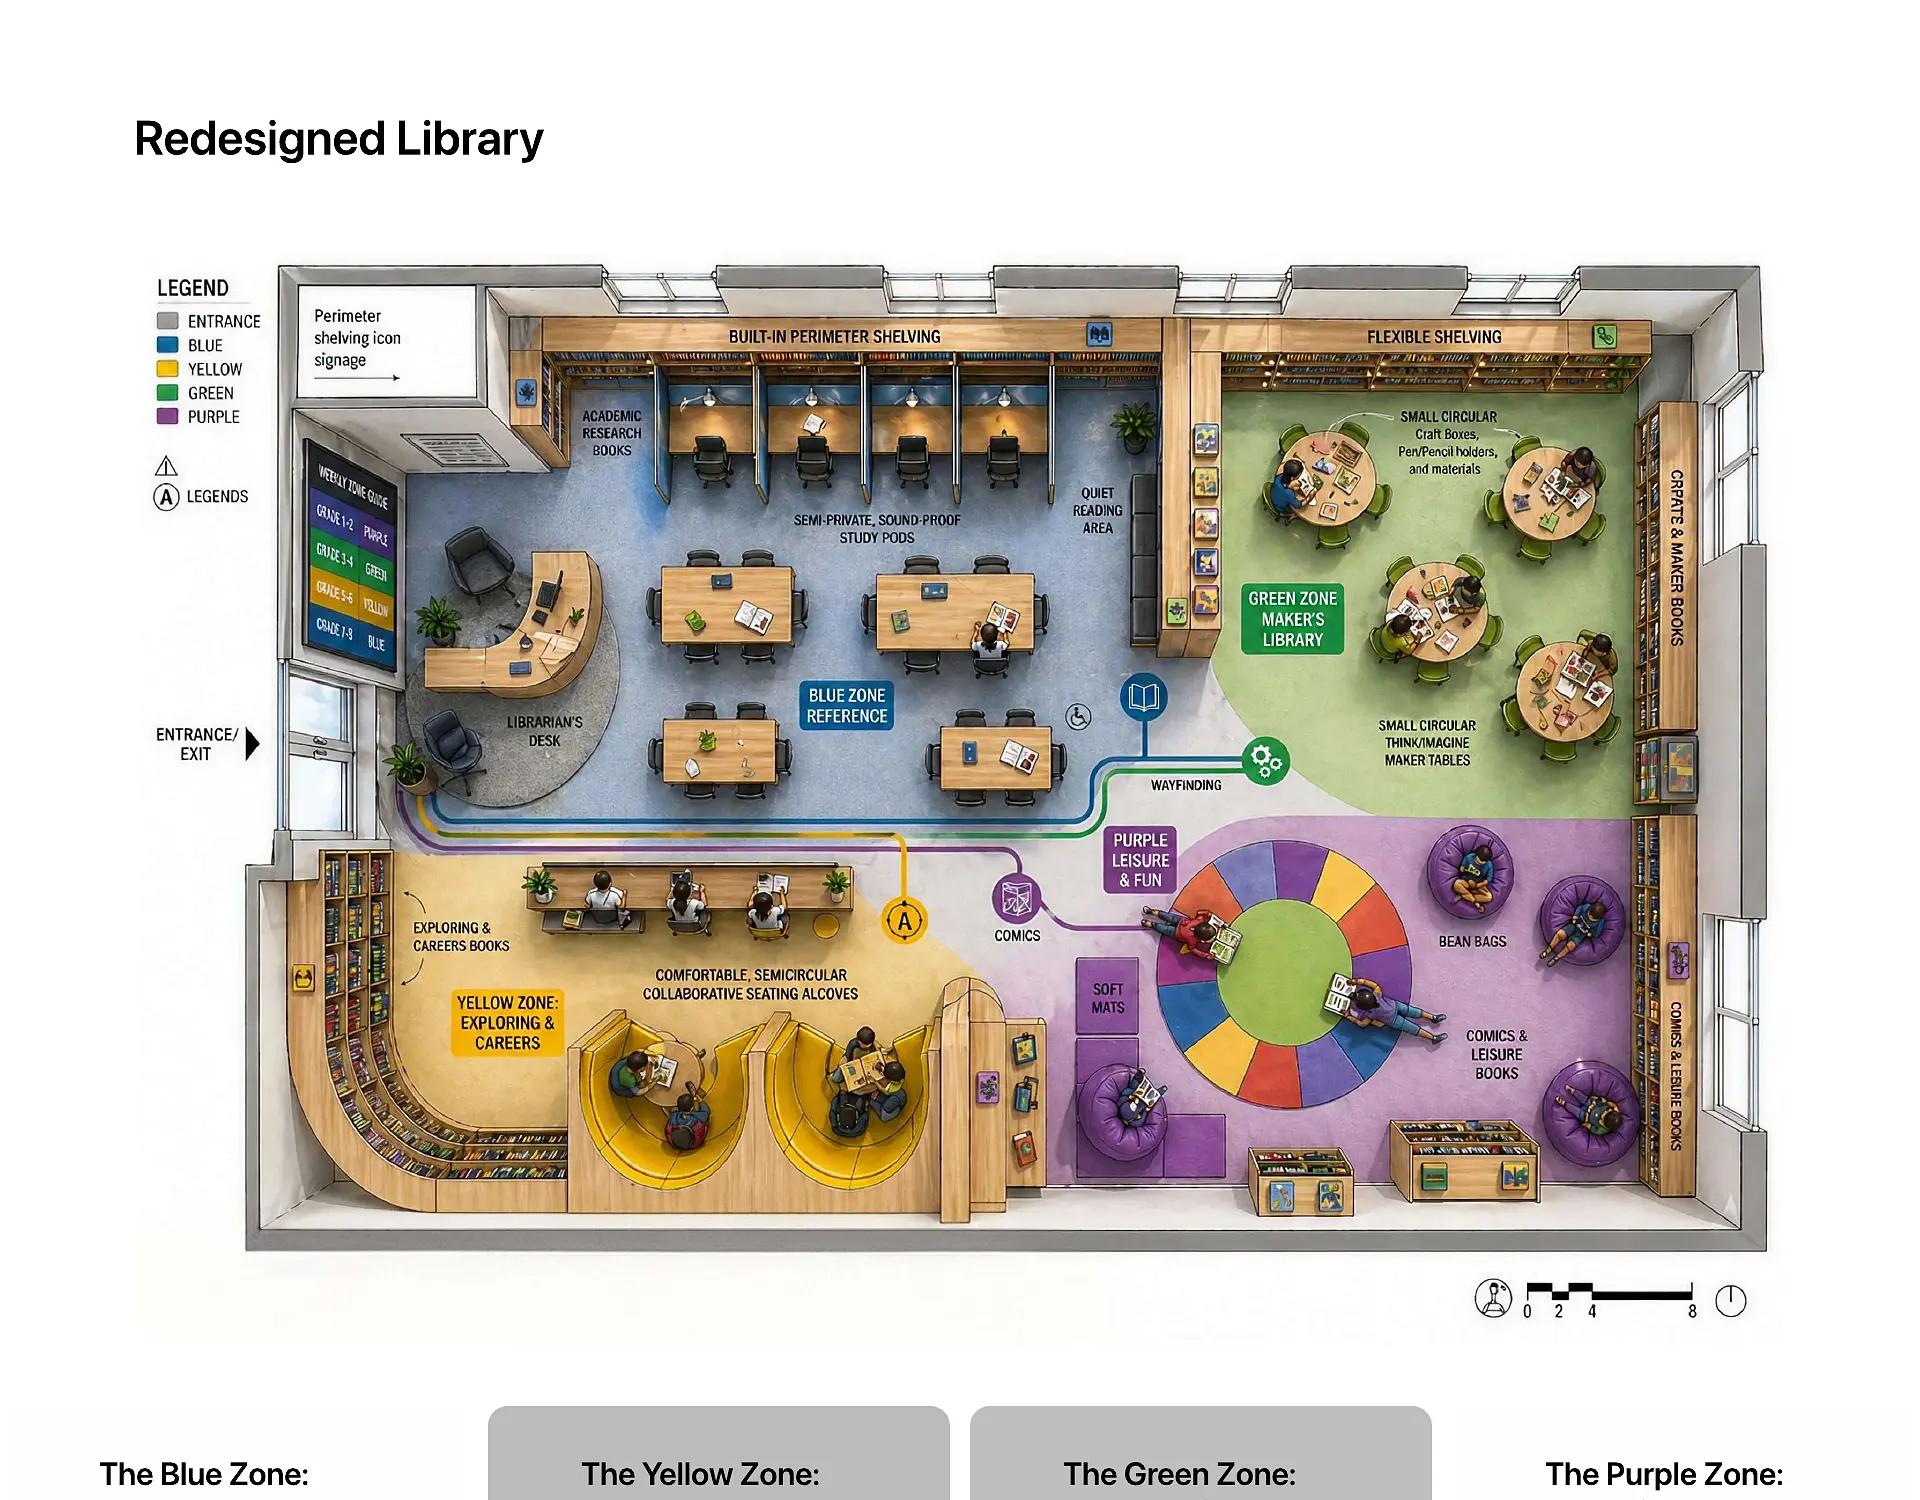
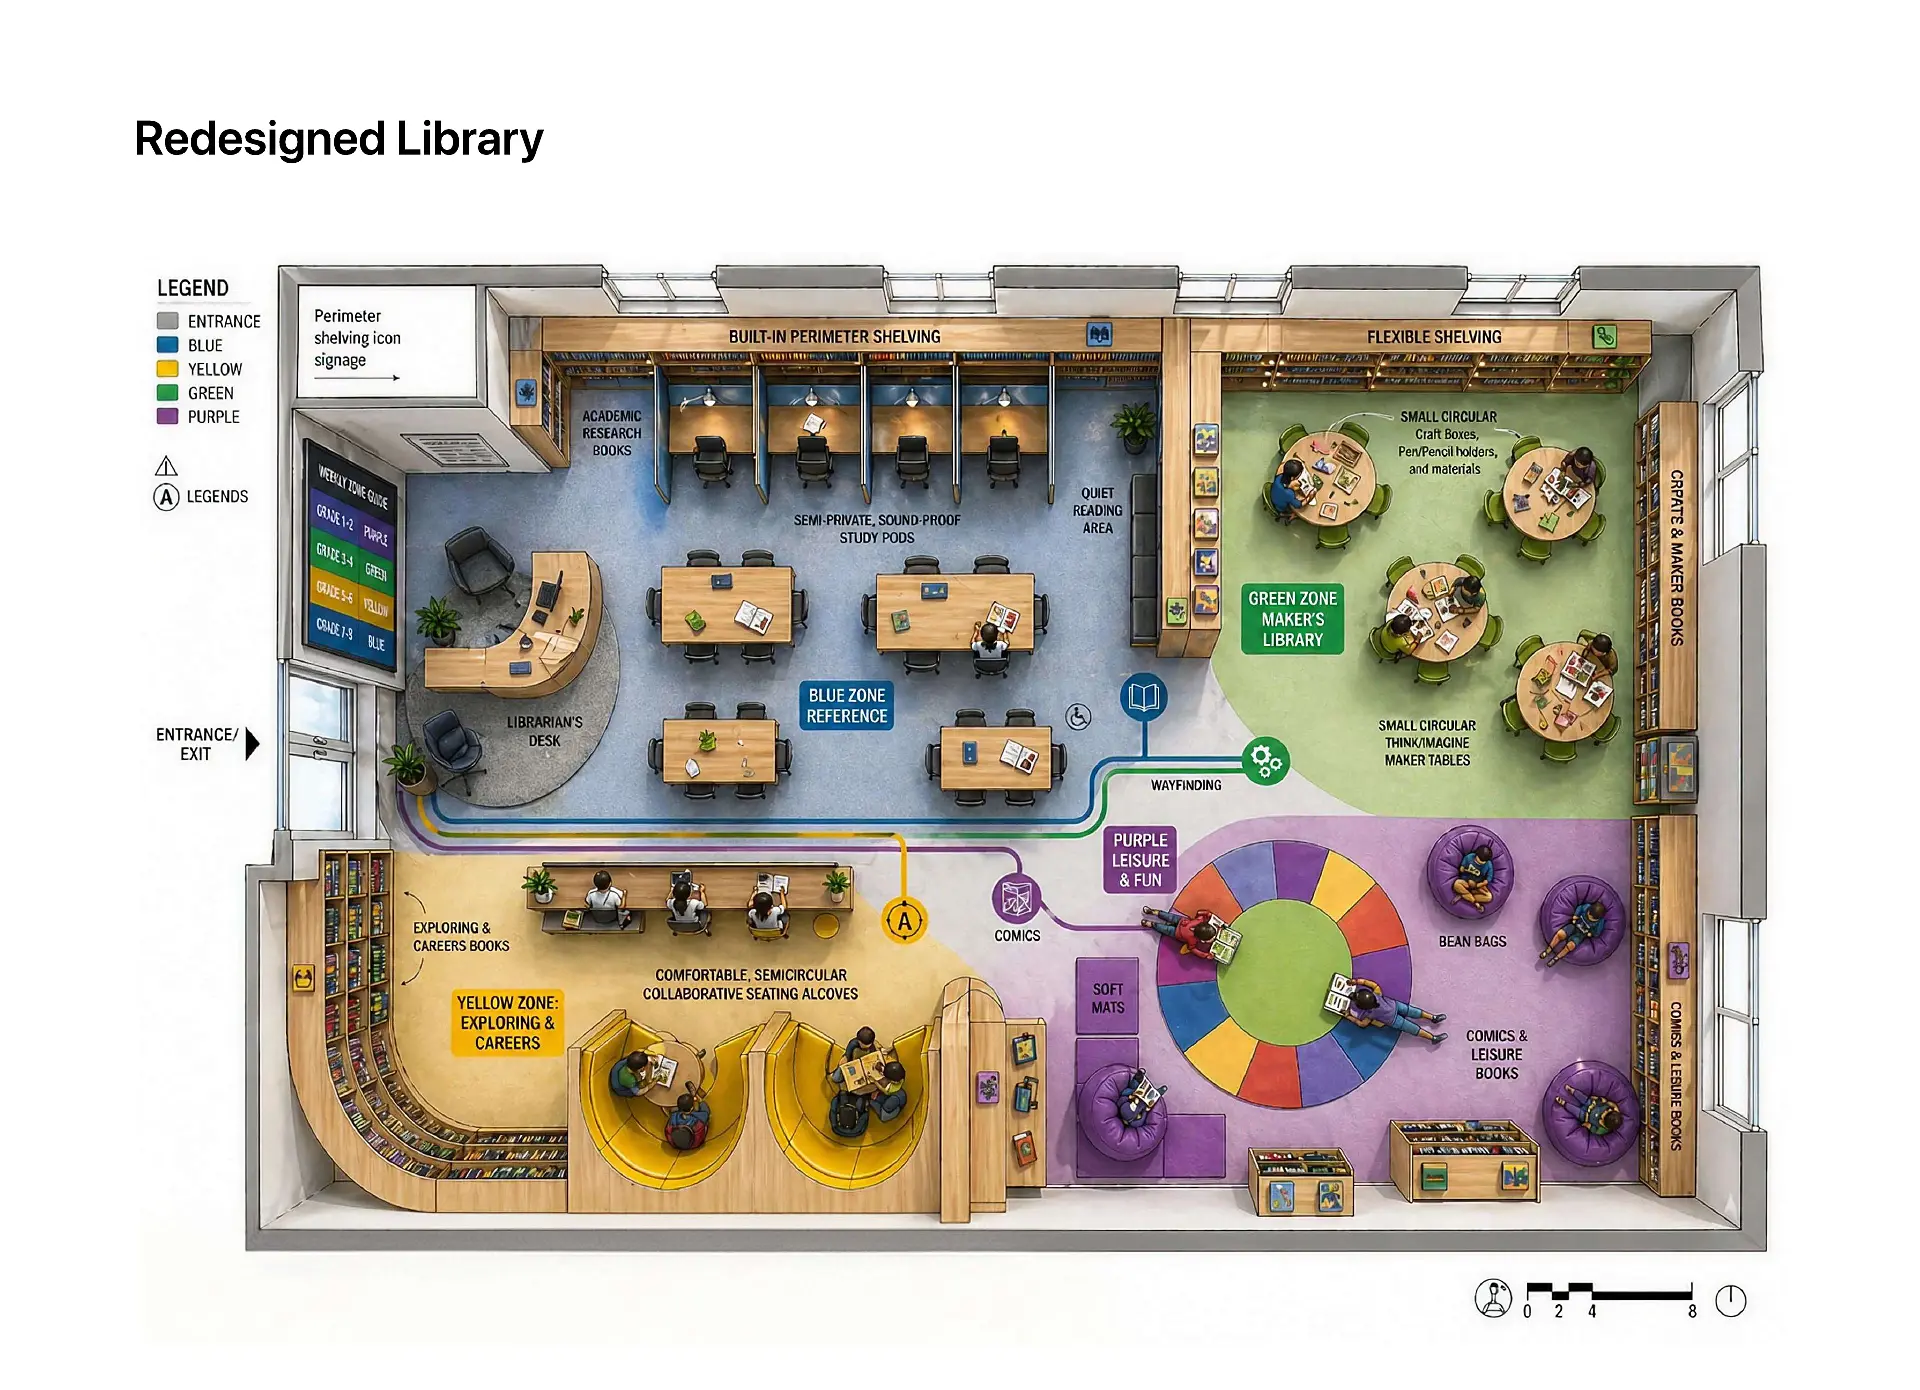
Clean up Library section, whiten app-screen backgrounds, drop Tools
The floor plan source image still had a cropped row of placeholder
zone-label cards baked into the bottom; cropped those out entirely.
Replaced the library-photos figure with four actual zone cards
instead, each tinted and topped in that zone's own wayfinding color
(blue/yellow/green/purple) rather than the project's single accent,
so the grid speaks the same color language as the floor plan.

App screenshots now sit on plain white instead of the warm tan frame
used for diagrams/photos, closer to how the screens read standalone
and fixing the white/blue/pink clash in the onboarding composite.

Tools is now optional in the schema and conditionally rendered, and
removed entirely from this project's meta row.

Claude-Session: https://claude.ai/code/session_01ABoxSrGLR5kJVAU4Q3hr6i

diff --git a/src/content/config.ts b/src/content/config.ts
@@ -10,7 +10,7 @@ const work = defineCollection({
       coverAlt: z.string(),
       role: z.string(),
       timeline: z.string(),
-      tools: z.array(z.string()),
+      tools: z.array(z.string()).optional(),
       order: z.number(),
       featured: z.boolean().default(false),
       // Optional — case-study page template (sidebar nav / meta row)

diff --git a/src/content/work/conversations-before-college.md b/src/content/work/conversations-before-college.md
@@ -6,7 +6,6 @@ coverAlt: "Conversations Before College title card on a blue-to-green gradient b
 role: Lead System & Interaction Designer
 team: Group Project · 4 Designers
 timeline: March – April 2026
-tools: [Figma]
 services: [System Design, Service Design, UI/UX]
 order: 2
 featured: true
@@ -116,13 +115,31 @@ Subjects taught kids that knowledge lives in sealed boxes, Science over here, Ar
 
 <figure>
 <img src="/images/conversations/library-floorplan.webp" alt="Floor plan of the redesigned school library showing the Blue, Yellow, Green, and Purple intent-based zones with wayfinding paths" />
-<figcaption>The four zones: Blue (Reference), Yellow (Explorer), Green (Creation), Purple (Leisure), connected by a single color-coded wayfinding path from the entrance.</figcaption>
+<figcaption>Connected by a single color-coded wayfinding path from the entrance, built and in use at the school.</figcaption>
 </figure>
 
-<figure>
-<img src="/images/conversations/library-photos.webp" alt="Photos of the implemented library redesign: students working in each of the four color-coded zones, a digital zone-guide screen, and the floor wayfinding paths" />
-<figcaption>Built and in use. The zone guide screen at the entrance tells each grade which zone they're rotating through that week.</figcaption>
-</figure>
+<ul class="zone-grid">
+<li class="zone-card" style="--zone-color: #3E6FD9">
+<p class="zone-label">Blue</p>
+<h3>Reference</h3>
+<p>Quiet, academic research books and built-in perimeter shelving for focused, solitary work.</p>
+</li>
+<li class="zone-card" style="--zone-color: #D9A530">
+<p class="zone-label">Yellow</p>
+<h3>Explorer</h3>
+<p>Comfortable, semicircular alcoves for careers and exploring books, built for collaborative browsing.</p>
+</li>
+<li class="zone-card" style="--zone-color: #4F9D5C">
+<p class="zone-label">Green</p>
+<h3>Creation</h3>
+<p>Small circular maker tables stocked with craft boxes, for hands-on, think-and-imagine work.</p>
+</li>
+<li class="zone-card" style="--zone-color: #8B5FC2">
+<p class="zone-label">Purple</p>
+<h3>Leisure</h3>
+<p>Bean bags and soft mats around a comics and leisure corner, reading for fun treated as seriously as reading for grades.</p>
+</li>
+</ul>
 
 ## CareerBridge
 
@@ -138,33 +155,33 @@ The first screen after login isn't a subject picker. It's eight situational ques
 <figcaption>A quick run through CareerBridge end to end before the screen-by-screen breakdown below.</figcaption>
 </figure>
 
-<figure class="figure--core">
+<figure class="figure--core figure--white">
 <p class="figure-eyebrow">The core mechanism</p>
 <img src="/images/conversations/app-onboarding.webp" alt="CareerBridge onboarding: the welcome screen, and the dual-access login screens for students (Exploring) and parents (Assessing)" />
 <figcaption>Dual access from the first screen. A student logs in to explore; a parent logs in to a different view entirely, built to assess, not control.</figcaption>
 </figure>
 
-<figure>
+<figure class="figure--white">
 <img class="figure-img--phone" src="/images/conversations/app-pathways.webp" alt="CareerBridge pathway results screen showing four broad industry pathways: Product Engineering & Design, Digital Systems & UX Strategy, Technology & Interactive Innovation, and Strategic Service Design" />
 <figcaption>What the eight questions produce: broad industry pathways, not a single forced major. A starting point for the 90 days, not a verdict.</figcaption>
 </figure>
 
-<figure>
+<figure class="figure--white">
 <img src="/images/conversations/app-dashboard-task.webp" alt="CareerBridge student dashboard showing today's focus task, and the detail view for a task from NID Ahmedabad" />
 <figcaption>Today's Focus. Every task is tagged with the real institution behind it, NID, IIIT, so a 90-day exploration carries actual academic weight, not a random internet module.</figcaption>
 </figure>
 
-<figure>
+<figure class="figure--white">
 <img class="figure-img--phone" src="/images/conversations/app-curriculum.webp" alt="CareerBridge curriculum tracking screen showing completed and upcoming weeks with credit values per task" />
 <figcaption>Completed weeks collapse, the current week expands. Each task underneath carries its own credit value, so progress reads as a build-up, not a checklist.</figcaption>
 </figure>
 
-<figure>
+<figure class="figure--white">
 <img class="figure-img--phone" src="/images/conversations/app-progress.webp" alt="CareerBridge student progress screen showing weekly engagement hours, total ABC credits, average mentor rating, and a portfolio link" />
 <figcaption>The student's own view: hours logged, credits earned, mentor ratings, a portfolio building itself in the background.</figcaption>
 </figure>
 
-<figure>
+<figure class="figure--white">
 <img class="figure-img--phone" src="/images/conversations/app-parent.webp" alt="CareerBridge parent dashboard showing verified ABC credits, project consistency, mentor sessions, and program investment details" />
 <figcaption>The parent's view of the same data: verified credits, consistency score, engagement level. The anxious check-in becomes a number the parent can actually read.</figcaption>
 </figure>
